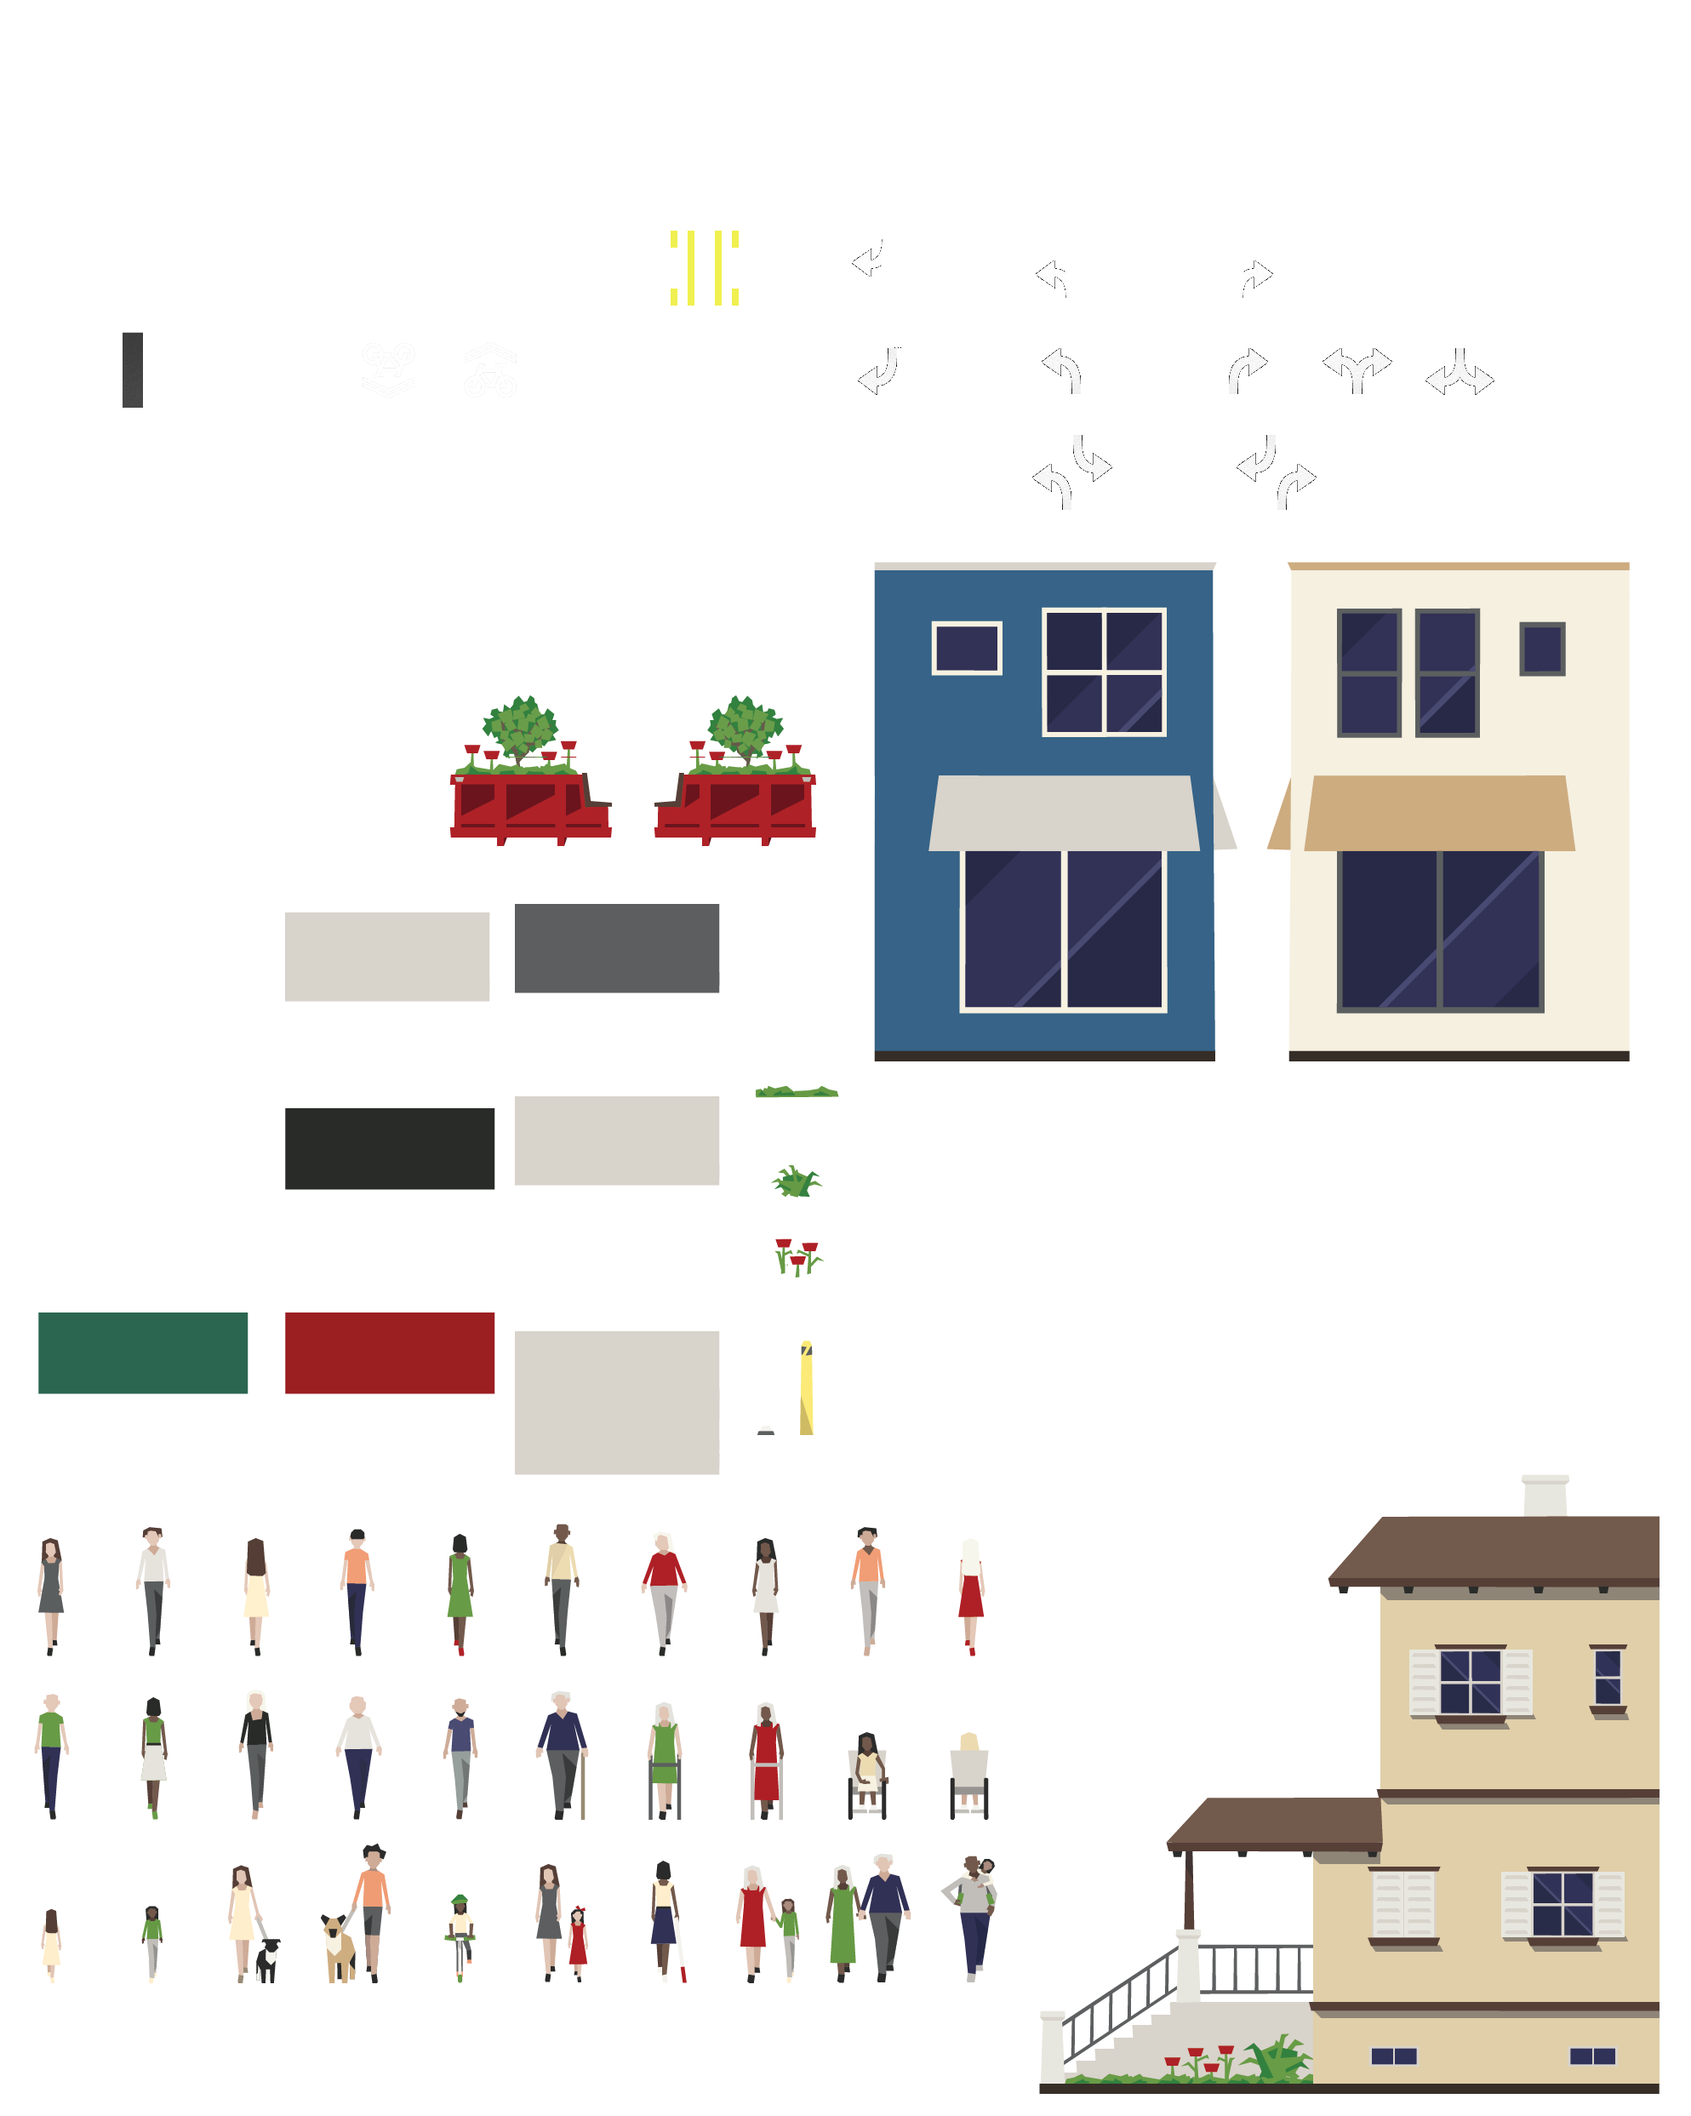
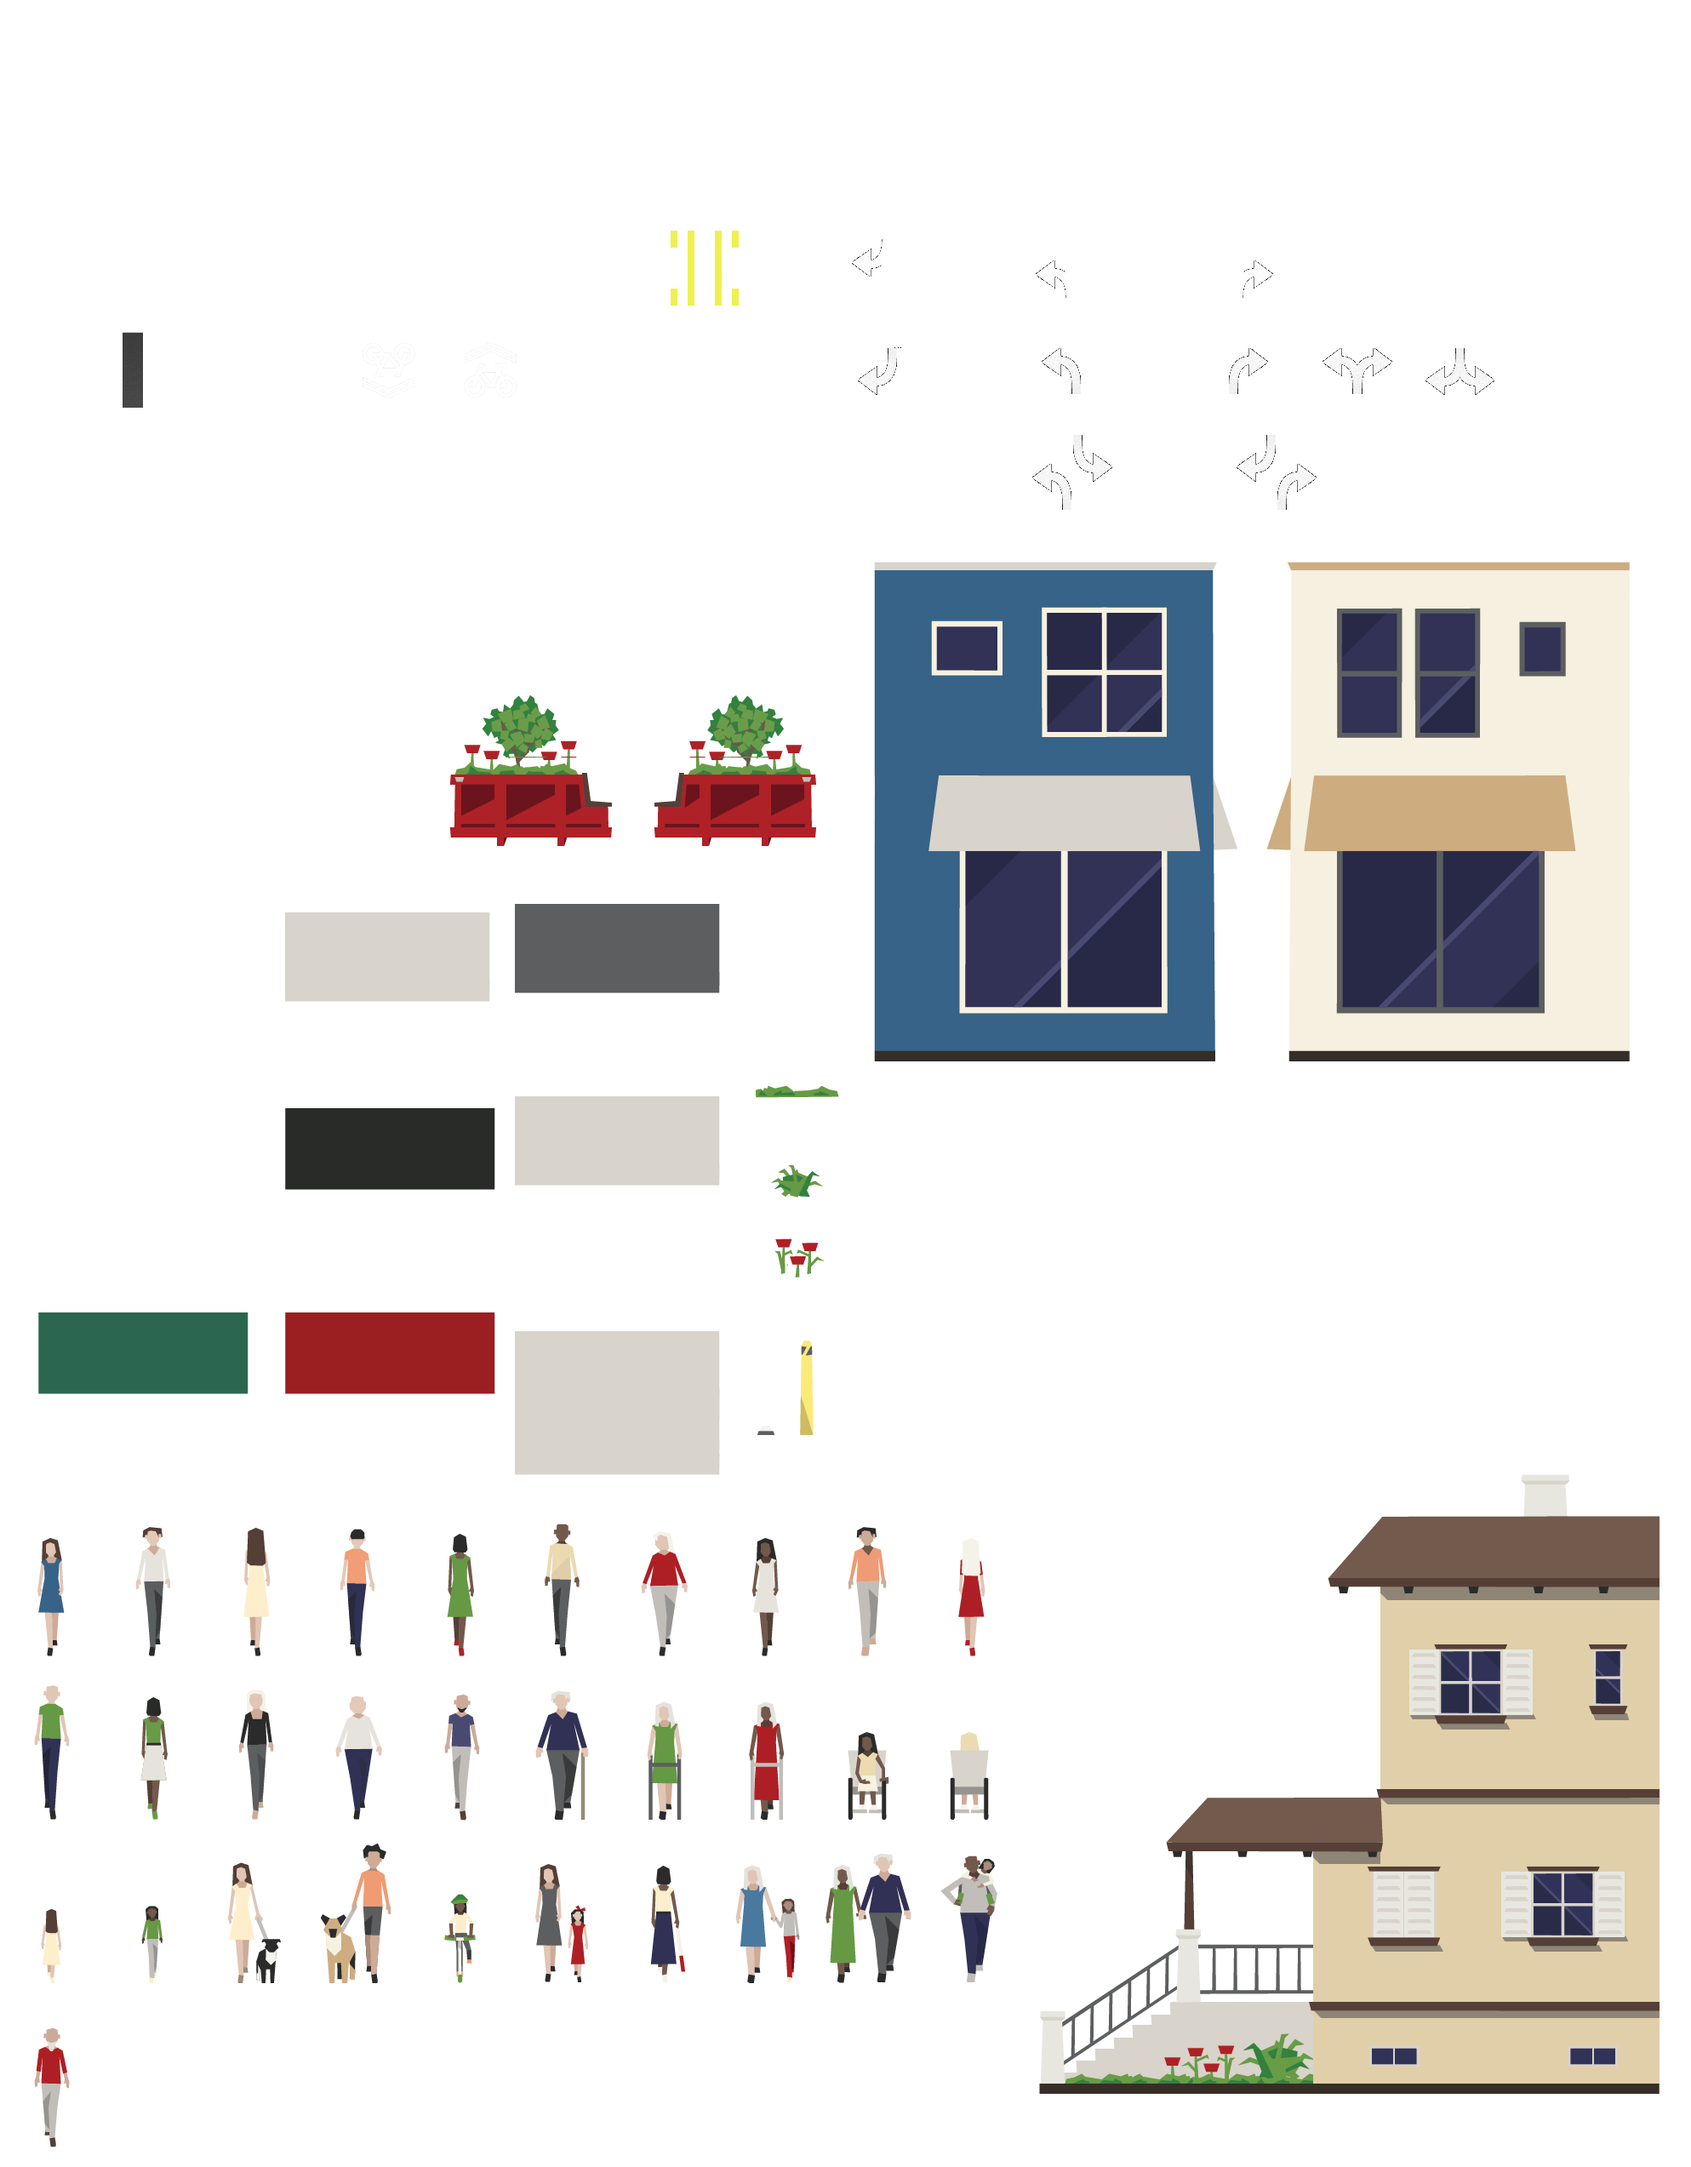
Add new people.

diff --git a/public/js/scripts.mustache.js b/public/js/scripts.mustache.js
@@ -1475,13 +1475,15 @@ var main = (function(){
   var INFO_BUBBLE_MARGIN_BUBBLE = 20;
   var INFO_BUBBLE_MARGIN_MOUSE = 10;
 
-  var PERSON_TYPES = 15; // 30
+  var PERSON_TYPES = 31;
   var PERSON_CAN_GO_FIRST = [true, true, true, true, true, true, true, true, true, true,
                              true, true, true, true, true, true, true, true, false, false,
-                             true, true, true, true, true, true, true, true, true, true];
+                             true, true, true, true, true, true, true, true, true, true,
+                             true];
   var PERSON_WIDTH = [2, 2, 2, 2, 2, 2, 2, 2, 2, 2, 
                       2, 2, 2, 3, 2, 3, 3, 3, 3, 3,
-                      1, 1, 3, 4, 2, 3, 2, 3, 4, 3];
+                      1, 1, 3, 4, 2, 3, 2, 3, 4, 3,
+                      2];
   var PERSON_TILESET_WRAP = 10;
 
   var INFO_BUBBLE_TYPE_SEGMENT = 1;
@@ -1853,6 +1855,8 @@ var main = (function(){
         break;
     }
 
+    var randSeed = (randSeed || 35) + 16;
+
     var randomGenerator = new RandomGenerator();
     randomGenerator.seed(randSeed);
 
@@ -1860,12 +1864,13 @@ var main = (function(){
 
     var peopleCount = 0;
 
-    while ((!peopleCount) || (peopleWidth < width - 45)) {
+    console.log('***', randSeed);
+    while ((!peopleCount) || (peopleWidth < width - 40)) {
       var person = {};
       person.left = peopleWidth;
       do {
         person.type = Math.floor(randomGenerator.rand() * PERSON_TYPES);
-      } while ((person.type == lastPersonType)/* || (!peopleCount && !PERSON_CAN_GO_FIRST[person.type])*/);
+      } while ((person.type == lastPersonType) || ((peopleCount == 0) && !PERSON_CAN_GO_FIRST[person.type]));
       lastPersonType = person.type;
 
       var lastWidth = widthConst + PERSON_WIDTH[person.type] * 12 - 24 + randomGenerator.rand() * widthRand;
@@ -2505,7 +2510,7 @@ var main = (function(){
     }
 
     _setSegmentContents(el, el.getAttribute('type'), 
-      el.getAttribute('variant-string'), width, el.getAttribute('rand-seed'), palette, false);
+      el.getAttribute('variant-string'), width, parseInt(el.getAttribute('rand-seed')), palette, false);
 
     if (updateEdit) {
       _infoBubble.updateWidthInContents(el, width / TILE_SIZE);
@@ -4431,7 +4436,7 @@ var main = (function(){
       }
     } else {
       draggingMove.originalRandSeed = 
-          draggingMove.originalEl.getAttribute('rand-seed');
+          parseInt(draggingMove.originalEl.getAttribute('rand-seed'));
       draggingMove.type = DRAGGING_TYPE_MOVE_TRANSFER;      
       draggingMove.originalWidth = 
           draggingMove.originalEl.offsetWidth;
